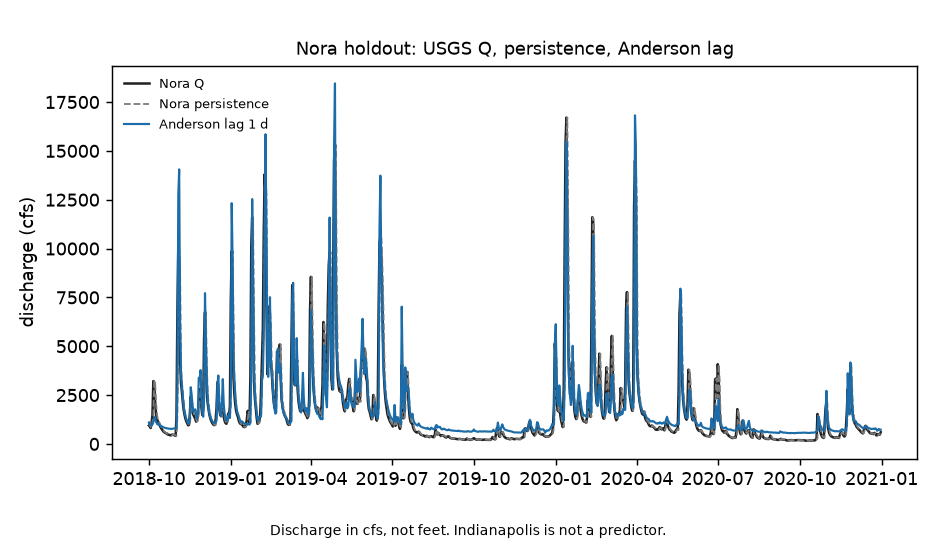
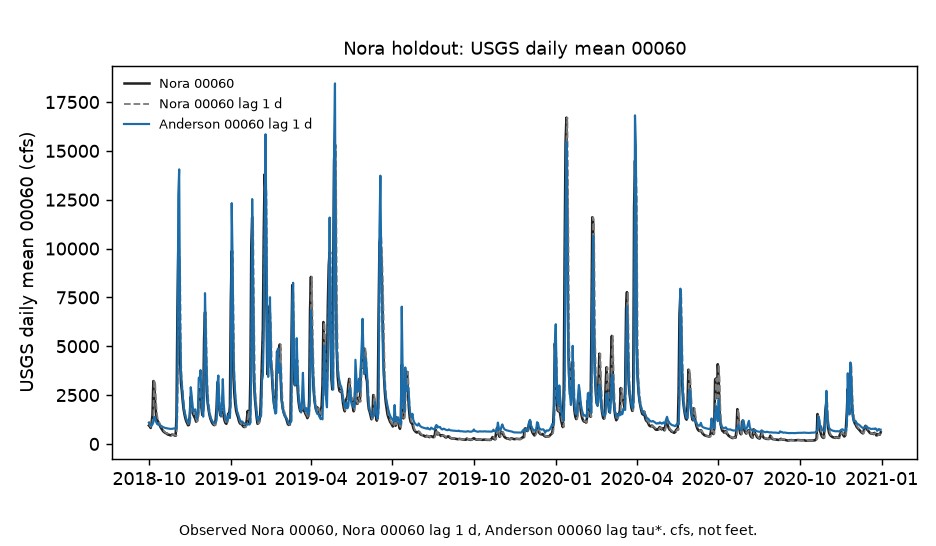
README: USGS 00060 lags in calendar days, not yesterday.
Self-contained gages, split, and NWM cite so the ranking reads without the other trees.

diff --git a/src/upq/figure.py b/src/upq/figure.py
@@ -29,10 +29,23 @@ def write_hydrograph(dest: Path, *, fit: dict[str, Any], title: str, subtitle: s
     ho = fit["holdout"]
     dates = [datetime.strptime(str(x)[:10], "%Y-%m-%d") for x in ho["dates"]]
     fig, ax = plt.subplots(figsize=(7.2, 4.2))
-    ax.plot(dates, ho["nora_cfs"], color="#222222", lw=1.4, label="Nora Q")
-    ax.plot(dates, ho["persistence_cfs"], color="#7a7a7a", lw=1.0, ls="--", label="Nora persistence")
-    ax.plot(dates, ho["anderson_lag_cfs"], color="#1b6ca8", lw=1.2, label=f"Anderson lag {fit['tau_star']} d")
-    ax.set_ylabel("discharge (cfs)")
+    ax.plot(dates, ho["nora_cfs"], color="#222222", lw=1.4, label="Nora 00060")
+    ax.plot(
+        dates,
+        ho["persistence_cfs"],
+        color="#7a7a7a",
+        lw=1.0,
+        ls="--",
+        label="Nora 00060 lag 1 d",
+    )
+    ax.plot(
+        dates,
+        ho["anderson_lag_cfs"],
+        color="#1b6ca8",
+        lw=1.2,
+        label=f"Anderson 00060 lag {fit['tau_star']} d",
+    )
+    ax.set_ylabel("USGS daily mean 00060 (cfs)")
     ax.set_title(title, fontsize=10)
     ax.legend(loc="upper left", fontsize=7, frameon=False)
     ax.xaxis.set_major_locator(mdates.AutoDateLocator())
@@ -76,14 +89,14 @@ def write_two(log_dir: Path, *, fit: dict[str, Any]) -> list[Path]:
         write_hydrograph(
             log_dir / "hydrograph.png",
             fit=fit,
-            title="Nora holdout: USGS Q, persistence, Anderson lag",
-            subtitle="Discharge in cfs, not feet. Indianapolis is not a predictor.",
+            title="Nora holdout: USGS daily mean 00060",
+            subtitle="Observed Nora 00060, Nora 00060 lag 1 d, Anderson 00060 lag tau*. cfs, not feet.",
         ),
         write_lag_curve(
             log_dir / "lag_corr.png",
             fit=fit,
-            title="Train corr(Anderson Q lagged, Nora Q)",
-            subtitle="Travel time between gages, not a wet mask. tau* from train only.",
+            title="Train corr(Anderson 00060 lagged, Nora 00060)",
+            subtitle="Lag in calendar days. tau* from train only. Indianapolis is not in this fit.",
         ),
     ]
     _cap(len(paths))

diff --git a/tests/test_readme.py b/tests/test_readme.py
@@ -17,6 +17,8 @@ def test_readme_opens_with_the_question() -> None:
     assert "diagnostic" in text.lower()
     assert "fa2e315" in text
     assert "p_sfha" in text
+    assert "00060" in text
+    assert "yesterday" not in text.lower()
     assert scan_text(text) == []
     assert "—" not in text
     assert "What it is not" not in text

diff --git a/src/upq/config.py b/src/upq/config.py
@@ -5,7 +5,9 @@ from __future__ import annotations
 
 from datetime import date
 
-QUESTION = "Does lagged USGS Q at Anderson beat yesterday's Q at Nora?"
+QUESTION = (
+    "Does lagged USGS daily mean 00060 at Anderson beat lag-1 USGS daily mean 00060 at Nora?"
+)
 ANDERSON_ID = "03348000"
 NORA_ID = "03351000"
 INDY_ID = "03353000"

diff --git a/README.md b/README.md
@@ -1,35 +1,57 @@
 # White River Anderson → Nora Q
 
-Does lagged USGS Q at Anderson beat yesterday's Q at Nora?
+Does lagged USGS daily mean 00060 at Anderson beat lag-1 USGS daily mean 00060 at Nora?
 
-Yes, on this split. tau* = 1 day (train). Holdout RMSE: Anderson lag **971 cfs**, Nora persistence **1,243 cfs**, NWM at Nora **1,316 cfs** (cited from `fa2e315`, not recomputed). NWM left gage skill on the table. Indianapolis is downstream: diagnostic only, not a predictor.
+Yes, on the 2018-10-01 to 2020-12-31 holdout. The best train lag is 1 calendar day. Scaled Anderson daily mean 00060 (lag 1 d) has holdout RMSE **971 cfs**. Nora daily mean 00060 from the previous calendar day has RMSE **1,243 cfs**. NOAA National Water Model v2.1 retrospective streamflow at the Nora reach, compared to the same Nora 00060 series on this split, has RMSE **1,316 cfs** (that number is copied from the NWM-error live report, not recomputed here). Anderson 00060 at lag 1 d is the best of the three. The operational routed model left skill that USGS 03348000 already had. This tree does not read `p_sfha` and does not paint HAND.
 
-This tree does not read `p_sfha` and does not paint HAND. Same temporal split as NWM error: train through 2018-09-30, hold out through 2020-12-31.
+## What was compared
 
-NWM error: https://github.com/martialsystems/white_river_nwm_error (`fa2e315`)  
-Rain-stage: https://github.com/martialsystems/white_river_rain_stage (`e41fd69`)
+White River, Indiana, upstream to downstream:
+
+| USGS site | Official name | Role |
+|-----------|---------------|------|
+| 03348000 | White River at Anderson, IN | Feature: daily mean discharge parameter **00060**, lagged 0 to 7 calendar days |
+| 03351000 | White River near Nora, IN | Label: daily mean discharge **00060** on day t |
+| 03353000 | White River at Indianapolis, IN | Diagnostic only. Downstream of Nora. Not a feature. |
+
+00060 is USGS daily mean discharge in cubic feet per second. The label is not gage height 00065 and is not converted to feet.
+
+On training days through 2018-09-30, tau* is the lag in {0,1,...,7} that maximizes Pearson correlation between Anderson 00060 lagged tau calendar days and Nora 00060 on that day. That lag is frozen. A one-coefficient line (scale 2.30, intercept 390 cfs) is fit on train: predicted Nora 00060 = 2.30 * Anderson 00060(lag tau*) + 390. Holdout scores that prediction against:
+
+- Nora 00060 lag 1 calendar day: the previous day's daily mean at the same gage
+- NWM v2.1 retrospective streamflow at NHDPlus COMID 18476353 (Nora), noon UTC, converted to cfs, versus USGS daily mean 00060, holdout RMSE 1,316 cfs from the already-published NWM-error run (commit fa2e315). This repo does not download NWM again.
+
+Train n is the valid days 2016-10-01 through 2018-09-30. Holdout is 2018-10-01 through 2020-12-31 (823 days). There is no August 2026 overlay.
+
+## Why this comparison exists
+
+On the same split, NWM v2.1 beat Nora 00060(t−1) only at Anderson (RMSE 488 vs 676 cfs). At Nora, Indianapolis, and Centerton, Nora/local 00060(t−1) won and NWM ran high (bias +70, +319, +483 cfs). That pattern is extra water entering below Anderson (Fall Creek, reservoirs, local runoff), not a statement that NWM fails at every gage. This repo asks whether Anderson 00060, lagged, already captures what NWM missed at Nora.
+
+Anderson lag 1 d RMSE is 971 cfs, below Nora lag 1 d (1,243) and below NWM (1,316).
+
+Indianapolis 00060 is correlated 0.99 with same-day Nora 00060 on train. That is a downstream diagnostic. Using Indianapolis 00060 to predict Nora 00060 would leak the lower river into the target.
 
 ![Figure 1. Holdout hydrograph](logs/nora_live/hydrograph.png)
 
-Figure 1. Nora Q, Nora persistence, Anderson lag 1 day. Discharge in cfs, not feet.
+Figure 1. USGS daily mean 00060 at Nora (black), Nora 00060 lag 1 d (dashed), Anderson 00060 lag 1 d scaled on train (blue). Units cfs.
 
 ![Figure 2. Lag correlation](logs/nora_live/lag_corr.png)
 
-Figure 2. Train corr versus lag. Travel time between gages, not a wet mask. tau* from train only.
+Figure 2. Train Pearson corr of Anderson 00060 lagged 0 to 7 days versus Nora 00060 on day t. tau* = 1 d marked. Calendar-day travel between gages, not a wet mask.
 
-## Live skill (holdout WY2019 to 2020)
+## Live skill (holdout 2018-10-01 to 2020-12-31)
 
-| Model | RMSE (cfs) | MAE (cfs) |
-|-------|-----------:|----------:|
-| Nora persistence | 1,243 | 549 |
-| Anderson lag 1 d (scale 2.30) | 971 | 531 |
-| NWM at Nora (cited `fa2e315`) | 1,316 | n/a |
+| Predictor of Nora 00060 on day t | RMSE (cfs) | MAE (cfs) |
+|---------------------------------|-----------:|----------:|
+| Nora 00060 lag 1 calendar day | 1,243 | 549 |
+| 2.30 * Anderson 00060 lag 1 d + 390 | 971 | 531 |
+| NWM v2.1 at Nora COMID (cited fa2e315) | 1,316 | n/a |
 
-Caveats (none reverse the ranking): 1-coefficient scale includes drainage-area; daily 00060; no 2026 overlay.
+Caveats (none reverse the ranking): the scale 2.30 mixes travel time with drainage-area; both series are daily mean 00060, not hourly; NWM column is noon UTC vs daily mean; no 2026 dates.
 
 ## Stage 0
 
-Synthetic Anderson lag 2 so CI recovers tau* without NWIS. Fixture under `logs/stage0_fixture/`.
+Synthetic Anderson 00060 routed to Nora at lag 2 so CI recovers τ* without NWIS. Fixture under `logs/stage0_fixture/`.
 
 ```bash
 python3.12 -m venv .venv
@@ -40,12 +62,12 @@ PYTHONPATH=src:. python3 scripts/run_fixture.py logs/stage0_fixture
 PYTHONPATH=src:. python3 scripts/run_live.py logs/nora_live
 ```
 
-Two figures max. Empty NWIS stops (`run_live.py` exit 2).
+Two figures max. Empty NWIS 00060 stops (`run_live.py` exit 2).
 
 | File | Role |
 |------|------|
 | [METHODOLOGY.md](METHODOLOGY.md) | Locked contract |
 | [AGENTS.md](AGENTS.md) | Agent rules |
 | [CHECKLIST.md](CHECKLIST.md) | Operator list |
-| `src/upq/` | NWIS, tau*, skill, figures |
+| `src/upq/` | NWIS 00060, τ*, skill, figures |
 | `upqforge/` | GraphForge pin |

diff --git a/METHODOLOGY.md b/METHODOLOGY.md
@@ -1,6 +1,6 @@
 # Methodology: lagged Anderson Q versus Nora persistence
 
-Question: Does lagged USGS Q at Anderson beat yesterday's Q at Nora?
+Question: Does lagged USGS daily mean 00060 at Anderson beat lag-1 USGS daily mean 00060 at Nora?
 
 ## Layers
 
@@ -11,9 +11,9 @@ Question: Does lagged USGS Q at Anderson beat yesterday's Q at Nora?
 | Diagnostic | 00060 | NWIS 03353000 Indianapolis. Downstream of Nora. Not a feature. |
 | Split | comparable to NWM error | Train through 2018-09-30, hold out 2018-10-01 to 2020-12-31 |
 
-tau* is argmax of train correlation for lags 0 to 7 days, then frozen. Holdout scores a 1-coefficient scale fit of Anderson Q at that lag. Nora persistence is Q at lag 1. NWM Nora RMSE 1,316 cfs is cited from `fa2e315`, not recomputed.
+tau* is argmax of train correlation for lags 0 to 7 days, then frozen. Holdout scores a 1-coefficient scale fit of Anderson daily mean 00060 at that lag. The local bar is Nora daily mean 00060 from the previous calendar day. NWM Nora RMSE 1,316 cfs is cited from `fa2e315`, not recomputed.
 
-Live: tau* = 1 day. Anderson lag RMSE 971 cfs beats Nora persistence 1,243 and cited NWM 1,316. Verdict: NWM left gage skill on the table. Indianapolis train corr is same-day 0.99 (downstream diagnostic).
+Live: tau* = 1 day. Anderson 00060 lag 1 d RMSE 971 cfs beats Nora 00060 lag 1 d (1,243) and cited NWM (1,316). Indianapolis train corr is same-day 0.99 (downstream diagnostic).
 
 No Stage IV. No NWM zarr download. No 2026 overlay. No feet inversion.
 

diff --git a/AGENTS.md b/AGENTS.md
@@ -1,6 +1,6 @@
 # Agent notes: white_river_anderson_nora
 
-Public GitHub. MIT. Question: Does lagged USGS Q at Anderson beat yesterday's Q at Nora?
+Public GitHub. MIT. Question: Does lagged USGS daily mean 00060 at Anderson beat lag-1 USGS daily mean 00060 at Nora?
 
 Do not edit NWM error (`fa2e315` / `fbbe1fd`), rain-stage, Nora HAND, FIM, HWM, or map-completion. Do not restamp those figures. Do not download NWM again. Do not use Indianapolis as a Nora predictor. Do not invert Nora Q to feet. Do not open a sixth raster tree.
 
